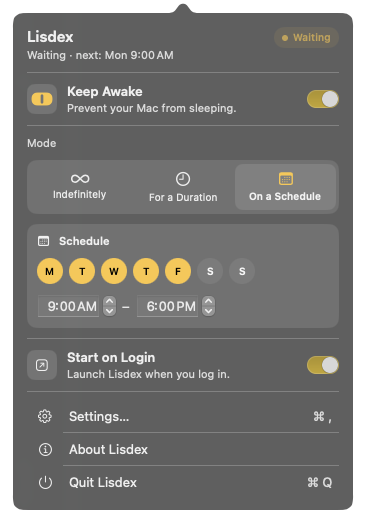
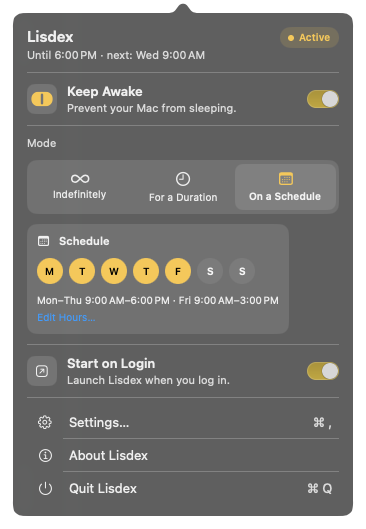
docs: README screenshots and features for 1.2
New Schedule and Apps shots, Power shows the Chat apps section, the menu shows
per-day hours and Appearance the light bulb. Feature rows add keyboard
shortcuts and the Option-click quick menu. scripts/screenshots.sh takes the
new shots; the v1 spec no longer lists Shortcuts as out of scope.

diff --git a/README.md b/README.md
@@ -38,20 +38,25 @@ Lisdex does one thing: stop your Mac from going to sleep. It's small enough to r
 | ⧉ | **While an app is open.** Pick apps like Xcode or VS Code; your Mac stays awake while one is open. |
 | ◐ | **Focus modes and Shortcuts.** Links like `lisdex://on` work from any Shortcuts automation; native actions and a Focus filter when you build with a signing certificate ([details](#shortcuts-and-focus)). |
 | ⌖ | **Stay available in chat apps.** An optional mouse jiggler keeps Teams and Slack from marking you Away while Keep Awake is on ([details](#mouse-jiggler)). |
-| 🖱 | **Left-click** opens the menu. **Right-click** toggles Keep Awake and keeps your selected mode. |
+| 🖱 | **Left-click** opens the menu. **Right-click** toggles Keep Awake and keeps your selected mode (or swap them). **Option-click** for a quick menu: 15 min to 2 h. |
+| ⌘ | **Keyboard shortcuts.** Toggle, start or stop Keep Awake from any app; none are set until you pick them. |
 | 🔔 | **A little pop** when you switch it on or off (like Amphetamine). Pick a different sound, or turn it off. |
-| ⚙ | Start on login, keep the display awake, a battery cutoff, accent colours and two icon variants. |
+| ⚙ | Start on login, keep the display awake, a battery cutoff and accent colours. |
 
 ## Screenshots
 
 <p align="center">
   <img src="assets/screenshots/popover-inactive.png" width="31%" alt="Lisdex menu, inactive, mode Indefinitely">
   <img src="assets/screenshots/popover-duration.png" width="31%" alt="Lisdex menu, active for a duration of 1 hour with progress">
-  <img src="assets/screenshots/popover-schedule.png" width="31%" alt="Lisdex menu, schedule mode Monday to Friday 9:00 to 18:00">
+  <img src="assets/screenshots/popover-schedule.png" width="31%" alt="Lisdex menu, schedule mode Monday to Thursday 9:00 to 18:00 and Friday 9:00 to 15:00">
 </p>
 <p align="center">
-  <img src="assets/screenshots/settings-power.png" width="48%" alt="Settings, Power tab: display, battery cutoff and keep-awake engine">
-  <img src="assets/screenshots/settings-appearance.png" width="48%" alt="Settings, Appearance tab: pill or coffee mug menu bar icon and accent colours">
+  <img src="assets/screenshots/settings-schedule.png" width="48%" alt="Settings, Schedule tab: hours for each day, Friday until 15:00">
+  <img src="assets/screenshots/settings-power.png" width="48%" alt="Settings, Power tab: display, battery cutoff, mouse jiggler for chat apps and keep-awake engine">
+</p>
+<p align="center">
+  <img src="assets/screenshots/settings-apps.png" width="48%" alt="Settings, Apps tab: Xcode and Visual Studio Code keep the Mac awake while open">
+  <img src="assets/screenshots/settings-appearance.png" width="48%" alt="Settings, Appearance tab: pill, coffee mug or light bulb menu bar icon and accent colours">
 </p>
 
 ### How it keeps your Mac awake

diff --git a/.context/specs/lisdex-v1.md b/.context/specs/lisdex-v1.md
@@ -133,7 +133,7 @@ Version + build, GitHub link, license (MIT), "Inspired by Amphetamine", disclaim
 
 ## Out of scope (v1)
 
-Closed-lid (clamshell without power) mode, prebuilt/notarized binaries (ADR 0005), download/CPU triggers, Shortcuts/AppIntents, App Store build. Candidates for v1.x.
+Closed-lid (clamshell without power) mode, prebuilt/notarized binaries (ADR 0005), download/CPU triggers, App Store build. Candidates for v1.x. (Shortcuts actions and a Focus filter shipped in 1.2 for certificate-signed builds; ADR 0022.)
 
 ## Acceptance criteria
 
